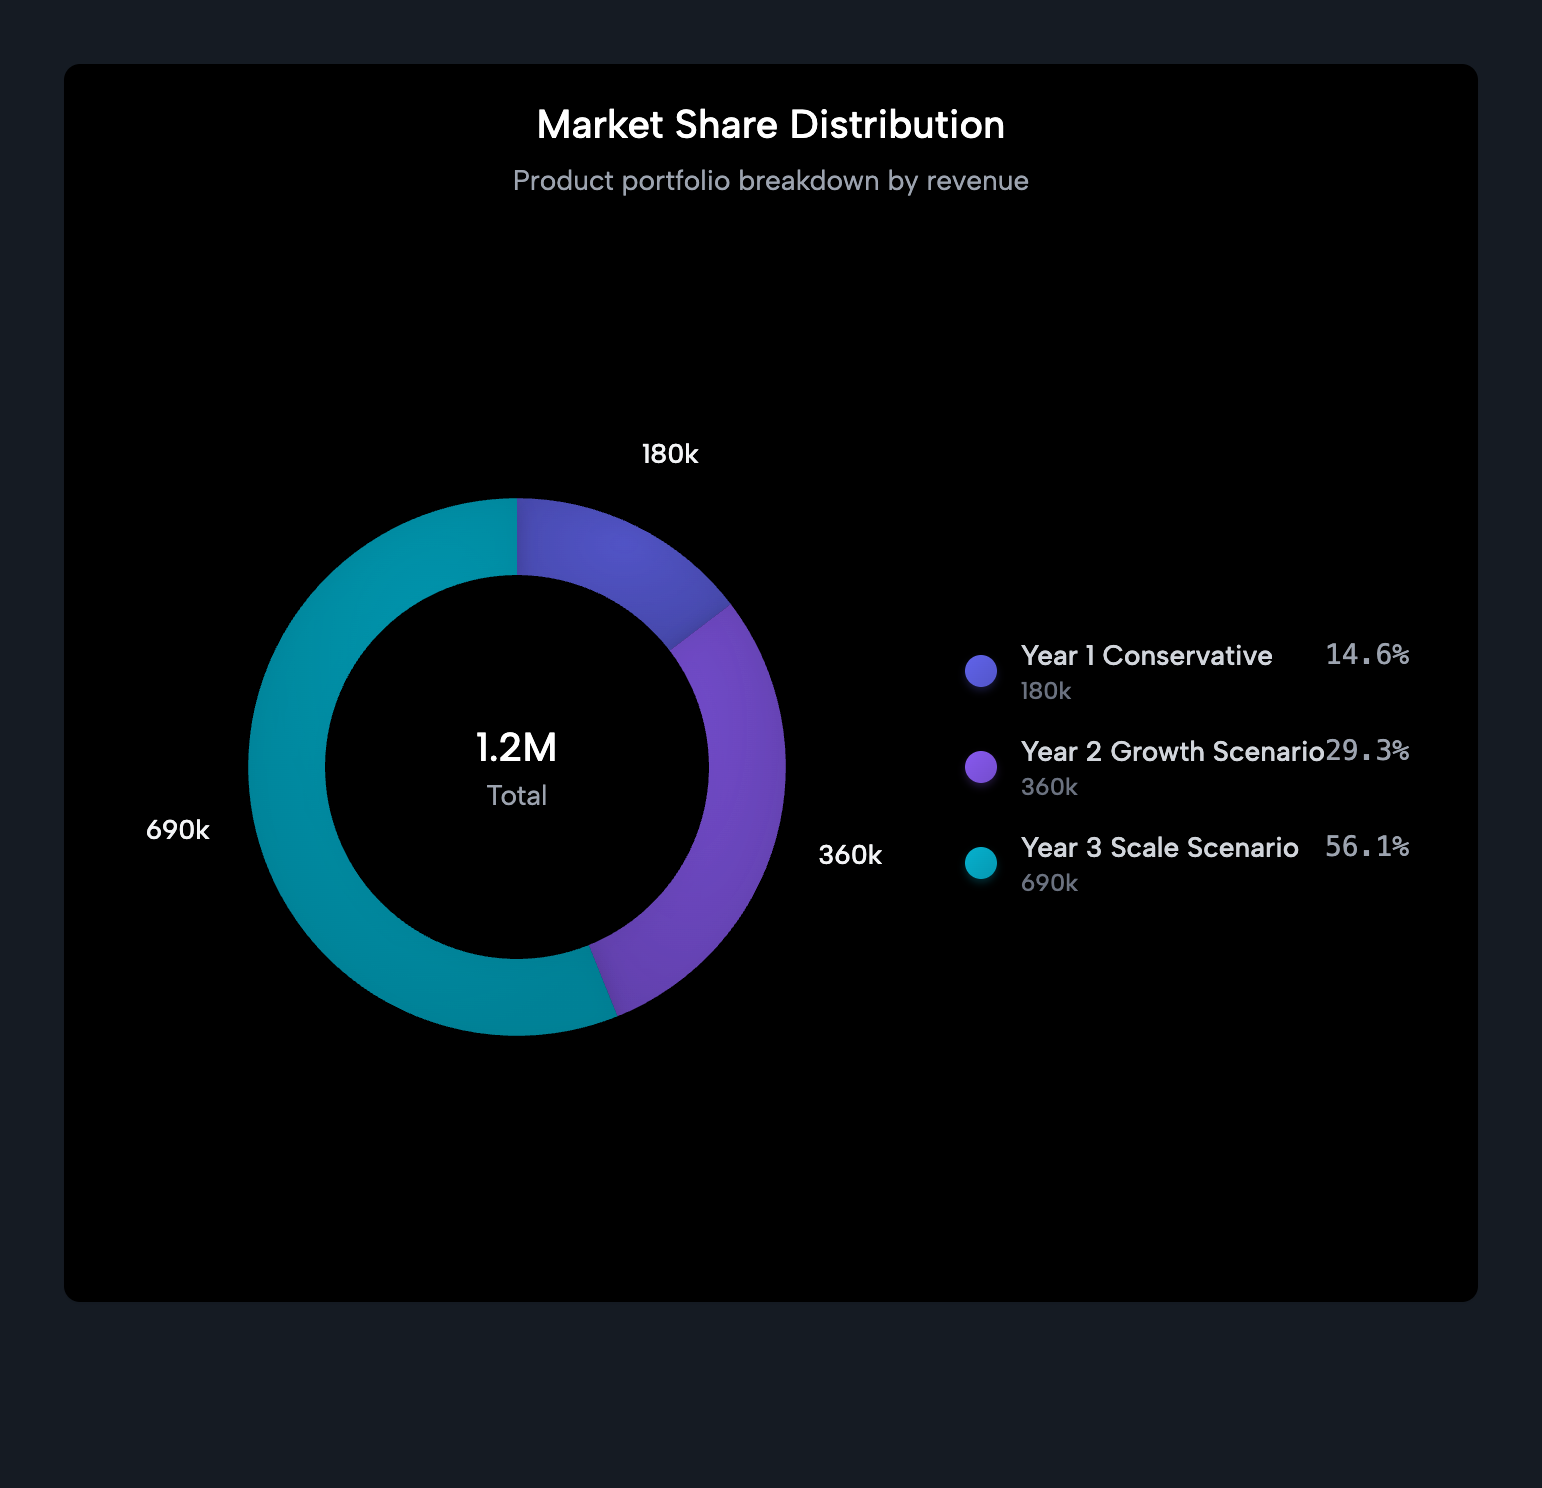
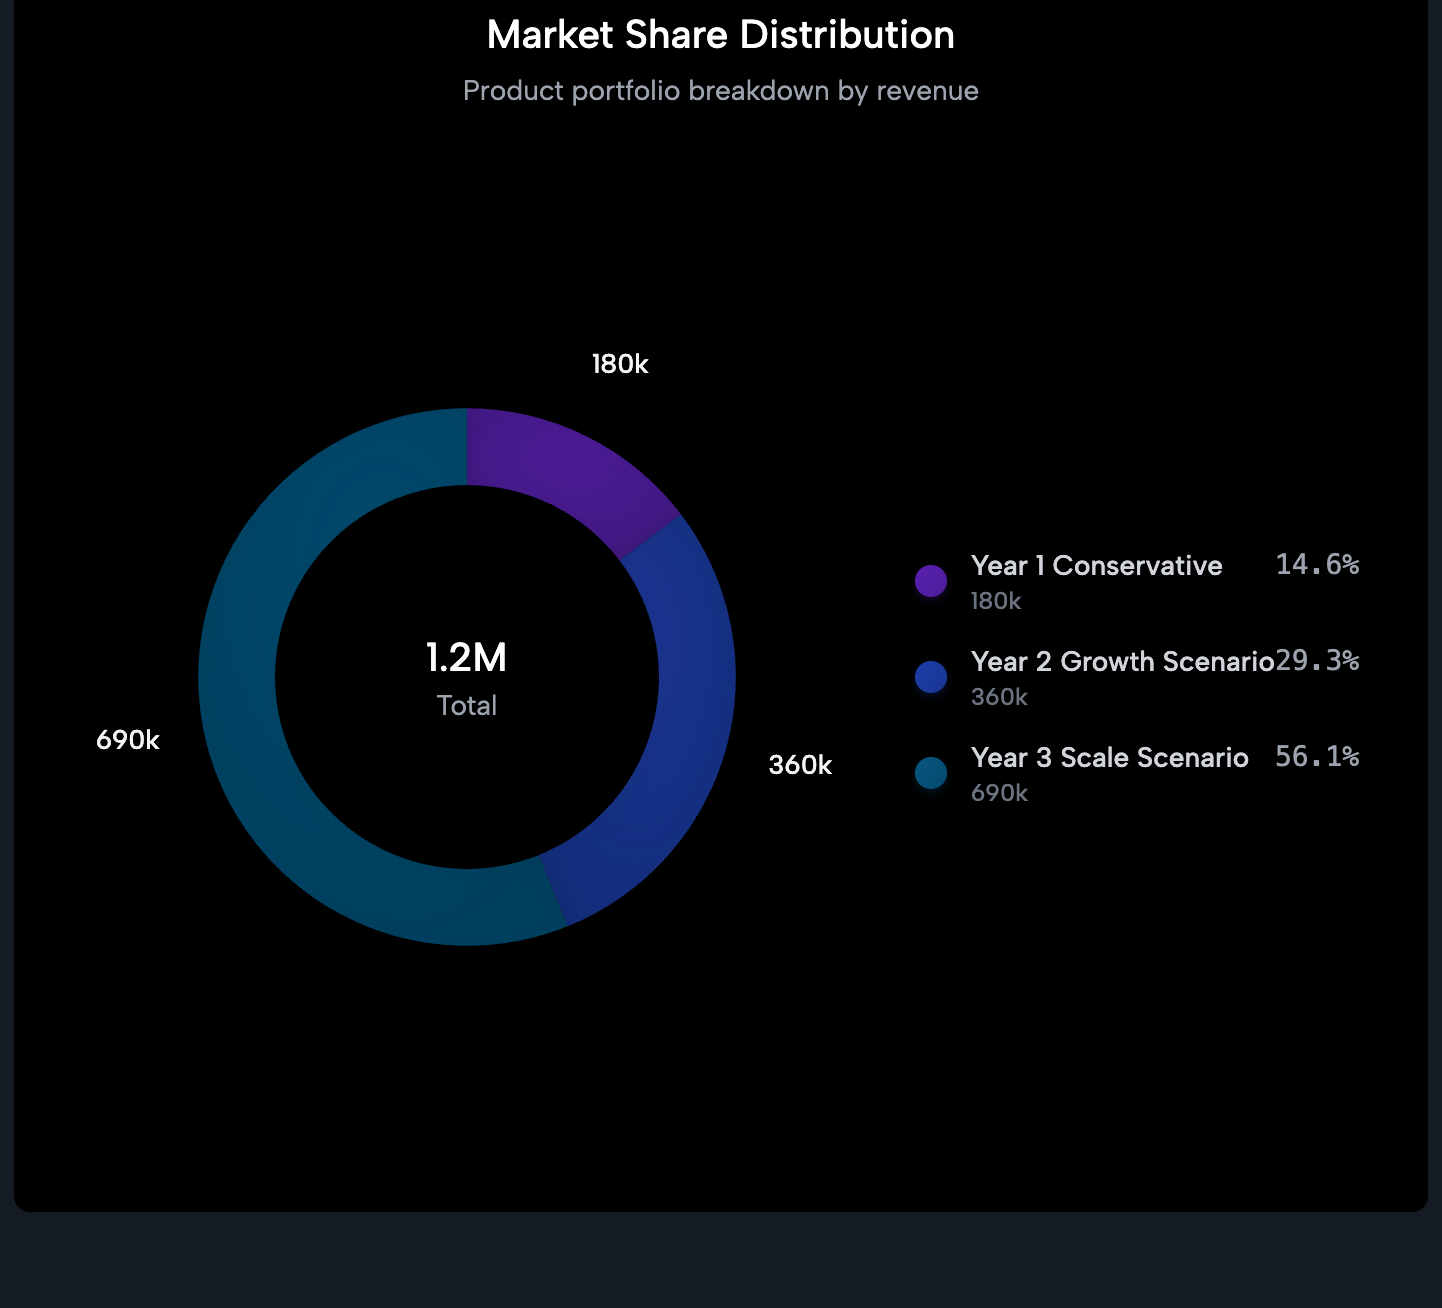
Replace chart screenshots with clean professional versions and refine feature cards
- Replace all 5 chart screenshots with clean versions without borders or containers
- Remove CSS styling containers from landing page chart previews
- Simplify feature card icons to use design system primary color
- Update pie chart icon to match main app consistency
- Crop chart images to eliminate unwanted GraphZen preview borders
- Maintain professional appearance with varied color palettes across charts

🤖 Generated with [Claude Code](https://claude.ai/code)

Changed region(s): [[0.0, 0.0, 0.9986, 0.948], [0.2809, 0.4893, 0.3745, 0.5505], [0.4057, 0.2752, 0.4681, 0.3058]]

diff --git a/components/landing/features.tsx b/components/landing/features.tsx
@@ -11,7 +11,7 @@ const chartTypes = [
     title: "Bar Charts",
     description: "Perfect for comparing categories and showing data relationships clearly.",
     preview: (
-      <div className="flex justify-center bg-card/30 rounded-md border border-border/20 overflow-hidden p-2 h-full">
+      <div className="flex justify-center h-full">
         <Image 
           src="/landing/charts/sales-vertical-bar.png" 
           alt="Sales Performance Chart"
@@ -20,15 +20,14 @@ const chartTypes = [
           className="w-full h-full object-contain"
         />
       </div>
-    ),
-    color: "from-blue-500 to-blue-400"
+    )
   },
   {
     icon: PieChart,
     title: "Pie & Donut Charts",
     description: "Visualize proportions and percentages with elegant circular charts.",
     preview: (
-      <div className="flex justify-center bg-card/30 rounded-md border border-border/20 overflow-hidden p-2 h-full">
+      <div className="flex justify-center h-full">
         <Image 
           src="/landing/charts/market-share-donut.png" 
           alt="Market Share Chart"
@@ -37,15 +36,14 @@ const chartTypes = [
           className="w-full h-full object-contain"
         />
       </div>
-    ),
-    color: "from-green-500 to-green-400"
+    )
   },
   {
     icon: TrendingUp,
     title: "Line Charts",
     description: "Track trends and changes over time with smooth, professional lines.",
     preview: (
-      <div className="flex justify-center bg-card/30 rounded-md border border-border/20 overflow-hidden p-2 h-full">
+      <div className="flex justify-center h-full">
         <Image 
           src="/landing/charts/revenue-growth-line.png" 
           alt="Revenue Growth Line Chart"
@@ -54,15 +52,14 @@ const chartTypes = [
           className="w-full h-full object-contain"
         />
       </div>
-    ),
-    color: "from-purple-500 to-purple-400"
+    )
   },
   {
     icon: Activity,
     title: "Combo Charts",
     description: "Combine multiple chart types for comprehensive data storytelling.",
     preview: (
-      <div className="flex justify-center bg-card/30 rounded-md border border-border/20 overflow-hidden p-2 h-full">
+      <div className="flex justify-center h-full">
         <Image 
           src="/landing/charts/sales-satisfaction-combo.png" 
           alt="Sales & Satisfaction Combo Chart"
@@ -71,8 +68,7 @@ const chartTypes = [
           className="w-full h-full object-contain"
         />
       </div>
-    ),
-    color: "from-red-500 to-red-400"
+    )
   }
 ]
 
@@ -129,12 +125,10 @@ export function Features() {
               transition={{ duration: 0.8, delay: index * 0.15, ease: "easeOut" }}
               viewport={{ once: true }}
             >
-              <Card className="h-full border-border/30 hover:shadow-xl hover:shadow-primary/10 hover:scale-[1.02] hover:border-primary/30 transition-all duration-300 group cursor-pointer">
+              <Card className="h-full border-none hover:shadow-xl hover:shadow-primary/10 hover:scale-[1.02] transition-all duration-300 group cursor-pointer">
                 <CardContent className="p-6 flex flex-col h-full">
                   <div className="flex items-center space-x-3 mb-4">
-                    <div className={`p-2 rounded-lg bg-gradient-to-r ${chart.color} text-white group-hover:scale-110 transition-transform duration-300`}>
-                      <chart.icon className="w-5 h-5" />
-                    </div>
+                    <chart.icon className="w-5 h-5 text-primary group-hover:scale-110 transition-transform duration-300" />
                     <h3 className="font-medium text-lg">{chart.title}</h3>
                   </div>
                   

diff --git a/components/landing/interactive-demo.tsx b/components/landing/interactive-demo.tsx
@@ -59,7 +59,7 @@ const demoSteps = [
     preview: (
       <div className="space-y-4">
         <div className="grid grid-cols-2 gap-4">
-          <div className="relative bg-card/30 rounded-lg border border-border/20 shadow-sm overflow-hidden p-2">
+          <div className="relative">
             <Image 
               src="/landing/charts/sales-vertical-bar.png" 
               alt="Sales Performance Chart"
@@ -68,7 +68,7 @@ const demoSteps = [
               className="w-full h-full object-cover"
             />
           </div>
-          <div className="relative bg-card/30 rounded-lg border border-border/20 shadow-sm overflow-hidden p-2">
+          <div className="relative">
             <Image 
               src="/landing/charts/performance-horizontal-bar.png" 
               alt="Performance Metrics Chart"
@@ -78,7 +78,7 @@ const demoSteps = [
             />
           </div>
         </div>
-        <div className="relative bg-card/30 rounded-lg border border-border/20 shadow-sm overflow-hidden max-w-sm mx-auto p-2">
+        <div className="relative max-w-sm mx-auto">
           <Image 
             src="/landing/charts/market-share-donut.png" 
             alt="Market Share Chart"
@@ -160,7 +160,7 @@ export function InteractiveDemo() {
             viewport={{ once: true }}
             className="relative lg:sticky lg:top-24"
           >
-            <Card className="bg-card border-border/30 shadow-2xl">
+            <Card className="bg-card border-none shadow-2xl">
               <CardContent className="p-6">
                 <div className="min-h-[300px] flex items-center justify-center">
                   <AnimatePresence mode="wait">

diff --git a/components/landing/hero.tsx b/components/landing/hero.tsx
@@ -129,7 +129,7 @@ export function Hero() {
                 repeat: Infinity,
                 ease: "easeInOut"
               }}
-              className="absolute -top-6 -right-6 bg-card/40 rounded-xl border border-border/20 shadow-lg overflow-hidden p-2"
+              className="absolute -top-6 -right-6"
             >
               <Image 
                 src="/landing/charts/performance-horizontal-bar.png" 
@@ -151,7 +151,7 @@ export function Hero() {
                 ease: "easeInOut",
                 delay: 1.2
               }}
-              className="absolute -bottom-6 -left-6 bg-card/40 rounded-xl border border-border/20 shadow-lg overflow-hidden p-2"
+              className="absolute -bottom-6 -left-6"
             >
               <Image 
                 src="/landing/charts/market-share-donut.png" 
